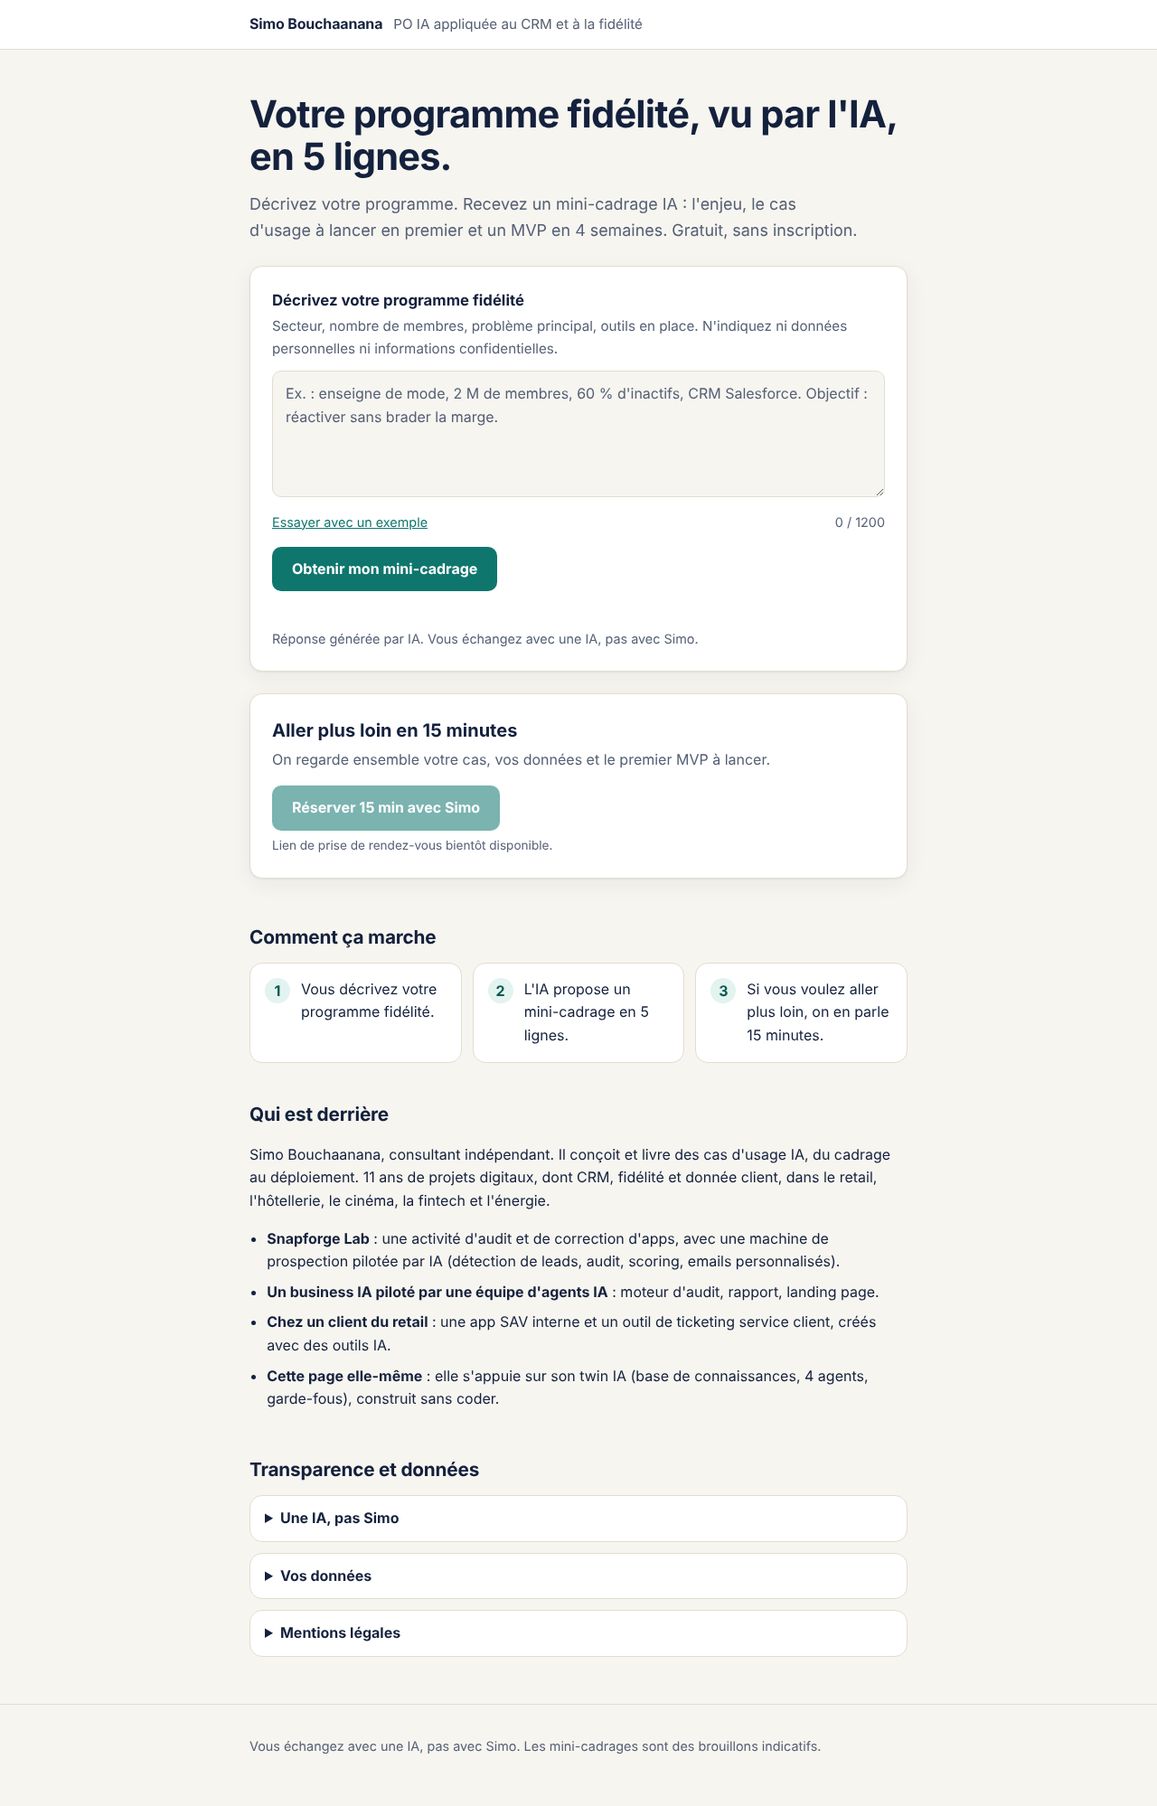
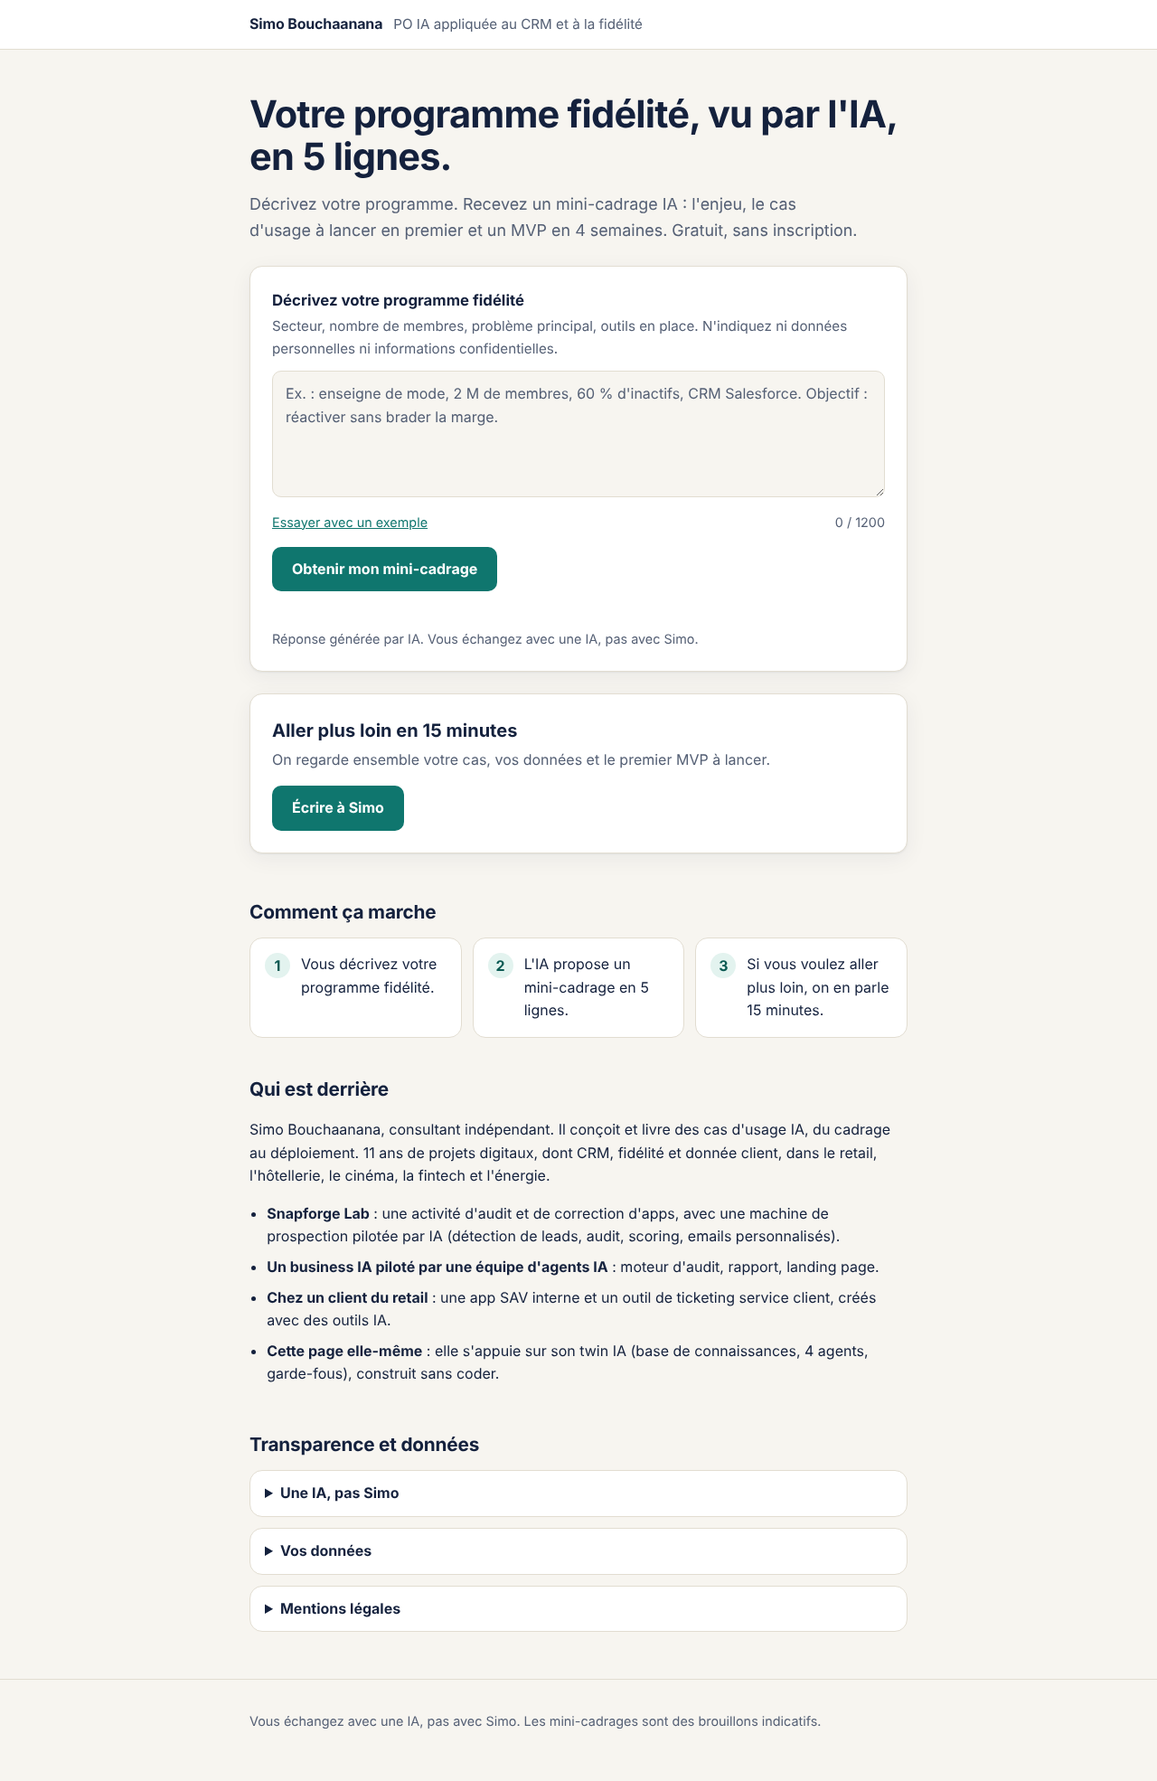
Vitrine prête pour la mise en ligne en mode secours
- Contact : bouton « Écrire à Simo » par email en attendant le lien Cal.com
- Mentions légales complétées par Simo ; Cloudflare et Anthropic retirés tant que l'IA en direct est désactivée
- Textes marqués validés par Simo ; textes de l'IA en direct conservés pour l'activation
- 85/85 tests OK

Claude-Session: https://claude.ai/code/session_01LXXUtf17MoH8B3dcHr3BtH

diff --git a/vitrine/index.html b/vitrine/index.html
@@ -164,7 +164,6 @@
       <button type="submit" class="bouton" id="btn-envoyer">Obtenir mon mini-cadrage</button>
       <p class="message-erreur" id="message-erreur" role="alert"></p>
       <p class="mention-ia">Réponse générée par IA. Vous échangez avec une IA, pas avec Simo.</p>
-      <p class="mention-ia" id="mention-transfert" hidden>En IA en direct, votre texte est transmis à Anthropic (États-Unis) pour générer la réponse. <a href="#titre-transparence">En savoir plus</a></p>
     </form>
     <noscript><p class="message-erreur">Activez JavaScript pour obtenir un mini-cadrage.</p></noscript>
   </section>
@@ -187,8 +186,7 @@
       <p>On regarde ensemble votre cas, vos données et le premier MVP à lancer.</p>
     </div>
     <div>
-      <a class="bouton" id="btn-calcom" target="_blank" rel="noopener noreferrer">Réserver 15 min avec Simo<span class="visuellement-cache"> (nouvel onglet)</span></a>
-      <span class="attente" id="calcom-attente" hidden>Lien de prise de rendez-vous bientôt disponible.</span>
+      <a class="bouton" id="btn-contact" href="mailto:m.bouchaanana@gmail.com?subject=Mini-cadrage%20IA">Écrire à Simo</a>
     </div>
   </section>
 
@@ -216,17 +214,15 @@
     <h2 id="titre-transparence">Transparence et données</h2>
     <details>
       <summary>Une IA, pas Simo</summary>
-      <p>La réponse est générée par une IA (Claude, d'Anthropic) à partir de votre texte. Elle s'affiche sans relecture humaine et peut contenir des erreurs. Les mini-cadrages de secours, eux, ont été préparés à l'avance par IA et relus par Simo.</p>
+      <p>Les mini-cadrages de cette page ont été préparés à l'avance par IA et relus par Simo. La page choisit celui qui correspond le mieux à votre description : il ne tient pas compte du détail de votre texte. Ce sont des brouillons indicatifs.</p>
     </details>
     <details>
       <summary>Vos données</summary>
       <ul>
-        <li>Votre texte sert uniquement à produire la réponse. Cette page ne le stocke pas et ne le réutilise pas.</li>
-        <li>En mode secours, rien de ce que vous écrivez ne quitte votre navigateur.</li>
-        <li>En IA en direct uniquement : votre texte passe par un relais technique (Cloudflare) et il est transmis à Anthropic, fournisseur du modèle, pour générer la réponse. Une empreinte pseudonymisée de votre adresse IP est conservée 48 heures au plus, uniquement pour limiter le nombre de demandes.</li>
-        <li>Hébergement : GitHub, qui héberge cette page, enregistre l'adresse IP des visiteurs pour la sécurité de son service.</li>
-        <li>GitHub, Cloudflare et Anthropic sont situés aux États-Unis : ces données techniques peuvent y être traitées.</li>
-        <li>Responsable du traitement : Mohammed Bouchaanana. Base légale : intérêt légitime (répondre à votre demande, prévenir les abus).</li>
+        <li>Votre texte reste dans votre navigateur : cette page ne l'envoie nulle part, ne le stocke pas et ne le réutilise pas.</li>
+        <li>Hébergement : GitHub, qui héberge cette page aux États-Unis, enregistre l'adresse IP des visiteurs pour la sécurité de son service.</li>
+        <li>Si vous écrivez à Simo, votre message sert uniquement à vous répondre.</li>
+        <li>Responsable du traitement : Mohammed Bouchaanana. Base légale : intérêt légitime (sécurité du site, réponse à vos messages).</li>
         <li>Vos droits : accès, rectification, effacement, limitation, opposition. Écrivez à <a href="mailto:m.bouchaanana@gmail.com">m.bouchaanana@gmail.com</a>. Vous pouvez aussi saisir la CNIL (cnil.fr).</li>
         <li>Pas de cookies, pas de traceurs.</li>
       </ul>
@@ -234,9 +230,8 @@
     <details>
       <summary>Mentions légales</summary>
       <ul>
-        <li>Éditeur et directeur de la publication : Mohammed Bouchaanana, consultant indépendant. Contact : <a href="mailto:m.bouchaanana@gmail.com">m.bouchaanana@gmail.com</a>.</li>
-        <li>Hébergement de la page : GitHub Inc., 88 Colin P. Kelly Jr. Street, San Francisco, CA 94107, États-Unis.</li>
-        <li>Relais technique de l'IA : Cloudflare, Inc., 101 Townsend Street, San Francisco, CA 94107, États-Unis.</li>
+        <li>Éditeur et directeur de la publication : Mohammed Bouchaanana, consultant indépendant en portage salarial, 2 rue du Prieuré, 78100 Saint-Germain-en-Laye, France. Téléphone : <a href="tel:+33668988677">+33 6 68 98 86 77</a>. Email : <a href="mailto:m.bouchaanana@gmail.com">m.bouchaanana@gmail.com</a>.</li>
+        <li>Hébergeur : GitHub, Inc., 88 Colin P. Kelly Jr. Street, San Francisco, CA 94107, États-Unis. Téléphone : +1 877 448 4820.</li>
       </ul>
     </details>
   </section>
@@ -253,10 +248,12 @@
 
 /* ===== Réglages (seule partie à modifier) ===== */
 const REGLAGES = {
-  // Adresse du relais Cloudflare. Vide = mode secours (mini-cadrages préparés à l'avance).
+  // Adresse du relais IA. Vide = mode secours (mini-cadrages préparés à l'avance).
   RELAIS_URL: "",
-  // Lien Cal.com 15 min, à fournir par Simo avant la mise en ligne.
+  // Lien Cal.com 15 min. Tant qu'il n'est pas renseigné, le bouton propose d'écrire à Simo.
   LIEN_CALCOM: "{{LIEN_CALCOM}}",
+  EMAIL_CONTACT: "m.bouchaanana@gmail.com",
+  OBJET_EMAIL: "Mini-cadrage IA",
   MIN_CARACTERES: 30,
   MAX_CARACTERES: 1200,
   DELAI_MAX_MS: 25000
@@ -592,21 +589,24 @@ $("form-cadrage").addEventListener("submit", async (evenement) => {
   }
 });
 
-/* ===== Bouton Cal.com ===== */
-(function preparerCalcom() {
-  const lien = $("btn-calcom");
+/* ===== Bouton de contact : Cal.com si le lien est renseigné, sinon email ===== */
+(function preparerContact() {
+  const bouton = $("btn-contact");
   const url = REGLAGES.LIEN_CALCOM;
   if (/^https:\/\/(app\.)?cal\.(com|eu)\//.test(url)) {
-    lien.href = url;
+    bouton.href = url;
+    bouton.target = "_blank";
+    bouton.rel = "noopener noreferrer";
+    const nouvelOnglet = document.createElement("span");
+    nouvelOnglet.className = "visuellement-cache";
+    nouvelOnglet.textContent = " (nouvel onglet)";
+    bouton.replaceChildren(document.createTextNode("Réserver 15 min avec Simo"), nouvelOnglet);
   } else {
-    lien.removeAttribute("href");
-    lien.setAttribute("aria-disabled", "true");
-    lien.setAttribute("role", "link");
-    $("calcom-attente").hidden = false;
+    bouton.href = "mailto:" + REGLAGES.EMAIL_CONTACT + "?subject=" + encodeURIComponent(REGLAGES.OBJET_EMAIL);
+    bouton.textContent = "Écrire à Simo";
   }
 })();
 
-$("mention-transfert").hidden = !REGLAGES.RELAIS_URL;
 majCompteur();
 </script>
 </body>

diff --git a/livrables/2026-10-14-textes-vitrine.md b/livrables/2026-10-14-textes-vitrine.md
@@ -1,4 +1,4 @@
-> **Brouillon généré par IA** (twin de Simo), **à valider par Simo** avant construction de la page. Les éléments entre {{ }} sont des espaces réservés à compléter.
+> Textes générés par IA (twin de Simo) et **validés par Simo le 14/10** pour la mise en ligne en mode secours. Les éléments entre {{ }} sont des espaces réservés à compléter.
 
 # Textes de la page vitrine « Mini-cadrage IA »
 
@@ -19,7 +19,7 @@
 - **Lien** : Essayer avec un exemple
 - **Bouton** : Obtenir mon mini-cadrage
 - **Sous le bouton** : Réponse générée par IA. Vous échangez avec une IA, pas avec Simo.
-- **Sous le bouton, IA en direct seulement** *(ajout après recette, à valider)* : En IA en direct, votre texte est transmis à Anthropic (États-Unis) pour générer la réponse. En savoir plus
+- **Sous le bouton, IA en direct seulement** *(validé par Simo le 14/10 ; retiré de la version publiée tant que l'IA en direct est désactivée)* : En IA en direct, votre texte est transmis à Anthropic (États-Unis) pour générer la réponse. En savoir plus
 - **Texte trop court** (moins de 30 caractères) : Ajoutez quelques détails (secteur, nombre de membres, problème principal) pour un mini-cadrage utile.
 
 ### Bloc réponse
@@ -27,7 +27,7 @@
 - **Étiquette, mode secours** : Mini-cadrage de secours, préparé à l'avance par IA et relu par Simo
 - **Explication, mode secours (IA pas encore activée)** : L'IA en direct n'est pas encore activée. Voici le mini-cadrage préparé qui correspond le mieux à votre description. Il ne tient pas compte du détail de votre texte.
 - **Explication, mode secours (IA indisponible)** : L'IA en direct est momentanément indisponible (limite du jour atteinte ou incident). Voici le mini-cadrage préparé qui correspond le mieux à votre description.
-- **Aucune situation reconnue (mode secours)** *(corrigé après recette, à valider)* : L'IA en direct n'est pas encore activée (ou : est momentanément indisponible). Je n'ai pas reconnu de situation type dans votre description. Choisissez celle qui se rapproche le plus de la vôtre :
+- **Aucune situation reconnue (mode secours)** *(validé par Simo le 14/10)* : L'IA en direct n'est pas encore activée (ou : est momentanément indisponible). Je n'ai pas reconnu de situation type dans votre description. Choisissez celle qui se rapproche le plus de la vôtre :
 - **Hors sujet (IA en direct)** : Je réponds uniquement sur les programmes fidélité et le CRM. Décrivez votre programme (secteur, nombre de membres, problème principal) pour recevoir un mini-cadrage.
 - **Sous la réponse** : Brouillon indicatif, non relu par Simo. Chiffres et pistes à valider avec vos données.
 - **Autres situations** : Voir une autre situation type : (les 5 titres de la partie B)
@@ -35,7 +35,7 @@
 ### Appel à l'action
 - **Titre** : Aller plus loin en 15 minutes
 - **Texte** : On regarde ensemble votre cas, vos données et le premier MVP à lancer.
-- **Bouton** : Réserver 15 min avec Simo (lien {{LIEN_CALCOM}})
+- **Bouton** : Écrire à Simo (mailto:m.bouchaanana@gmail.com, objet « Mini-cadrage IA »). Quand le lien Cal.com sera fourni : Réserver 15 min avec Simo (lien {{LIEN_CALCOM}}).
 
 ### Comment ça marche
 1. Vous décrivez votre programme fidélité.
@@ -51,22 +51,27 @@ Preuves IA :
 3. **Chez un client du retail** : une app SAV interne et un outil de ticketing service client, créés avec des outils IA.
 4. **Cette page elle-même** : elle s'appuie sur son twin IA (base de connaissances, 4 agents, garde-fous), construit sans coder.
 
-### Transparence et données
-*(Complété après recette pour l'information RGPD, à valider.)*
-- **Une IA, pas Simo** : la réponse est générée par une IA (Claude, d'Anthropic) à partir de votre texte. Elle s'affiche sans relecture humaine et peut contenir des erreurs. Les mini-cadrages de secours, eux, ont été préparés à l'avance par IA et relus par Simo.
-- **Votre texte** : il sert uniquement à produire la réponse. Cette page ne le stocke pas et ne le réutilise pas.
-- **Mode secours** : rien de ce que vous écrivez ne quitte votre navigateur.
-- **IA en direct uniquement** : votre texte passe par un relais technique (Cloudflare) et il est transmis à Anthropic, fournisseur du modèle, pour générer la réponse. Une empreinte pseudonymisée de votre adresse IP est conservée 48 heures au plus, uniquement pour limiter le nombre de demandes.
-- **Hébergement** : GitHub, qui héberge cette page, enregistre l'adresse IP des visiteurs pour la sécurité de son service.
-- **Hors UE** : GitHub, Cloudflare et Anthropic sont situés aux États-Unis : ces données techniques peuvent y être traitées.
-- **Base légale et responsable** : Mohammed Bouchaanana, responsable du traitement ; intérêt légitime (répondre à votre demande, prévenir les abus).
+### Transparence et données (version publiée, mode secours, validée par Simo le 14/10)
+- **Une IA, pas Simo** : Les mini-cadrages de cette page ont été préparés à l'avance par IA et relus par Simo. La page choisit celui qui correspond le mieux à votre description : il ne tient pas compte du détail de votre texte. Ce sont des brouillons indicatifs.
+- **Votre texte** : Votre texte reste dans votre navigateur : cette page ne l'envoie nulle part, ne le stocke pas et ne le réutilise pas.
+- **Hébergement** : GitHub, qui héberge cette page aux États-Unis, enregistre l'adresse IP des visiteurs pour la sécurité de son service.
+- **Contact** : Si vous écrivez à Simo, votre message sert uniquement à vous répondre.
+- **Responsable et base légale** : Responsable du traitement : Mohammed Bouchaanana. Base légale : intérêt légitime (sécurité du site, réponse à vos messages).
 - **Vos droits** : accès, rectification, effacement, limitation, opposition. Écrivez à m.bouchaanana@gmail.com. Vous pouvez aussi saisir la CNIL (cnil.fr).
 - **Pas de cookies, pas de traceurs.**
 
-### Mentions légales
-- **Éditeur et directeur de la publication** : Mohammed Bouchaanana, consultant indépendant. Contact : m.bouchaanana@gmail.com.
-- **Hébergement de la page** : GitHub Inc., 88 Colin P. Kelly Jr. Street, San Francisco, CA 94107, États-Unis.
-- **Relais technique de l'IA** : Cloudflare, Inc., 101 Townsend Street, San Francisco, CA 94107, États-Unis.
+### Mentions légales (version publiée)
+- **Éditeur et directeur de la publication** : Mohammed Bouchaanana, consultant indépendant en portage salarial, 2 rue du Prieuré, 78100 Saint-Germain-en-Laye, France. Téléphone : +33 6 68 98 86 77. Email : m.bouchaanana@gmail.com.
+- **Hébergeur** : GitHub, Inc., 88 Colin P. Kelly Jr. Street, San Francisco, CA 94107, États-Unis. Téléphone : +1 877 448 4820.
+
+### À réintroduire à l'activation de l'IA en direct (non publié)
+> Ligne sous le bouton : « En IA en direct, votre texte est transmis à Anthropic (États-Unis) pour générer la réponse. En savoir plus »
+>
+> Une IA, pas Simo : « La réponse est générée par une IA (Claude, d'Anthropic) à partir de votre texte. Elle s'affiche sans relecture humaine et peut contenir des erreurs. Les mini-cadrages de secours, eux, ont été préparés à l'avance par IA et relus par Simo. »
+>
+> Vos données : « En mode secours, rien de ce que vous écrivez ne quitte votre navigateur. » ; « En IA en direct uniquement : votre texte passe par un relais technique (Cloudflare) et il est transmis à Anthropic, fournisseur du modèle, pour générer la réponse. Une empreinte pseudonymisée de votre adresse IP est conservée 48 heures au plus, uniquement pour limiter le nombre de demandes. » ; « GitHub, Cloudflare et Anthropic sont situés aux États-Unis : ces données techniques peuvent y être traitées. » ; base légale complétée par « prévenir les abus ».
+>
+> Mentions légales : « Relais technique de l'IA : Cloudflare, Inc., 101 Townsend Street, San Francisco, CA 94107, États-Unis » (téléphone à relever sur le site officiel).
 
 ---
 
@@ -113,7 +118,7 @@ Chacun s'affiche avec l'étiquette « Mini-cadrage de secours, préparé à l'av
 
 ## C. Consignes de l'IA en direct (ce qu'elle a le droit de dire)
 
-Ces consignes sont envoyées à Claude Haiku à chaque demande. Le visiteur ne les voit pas. *Renforcées après recette (règles C1 à C10), à valider.* Texte exact : `vitrine/relais/worker.js`, constante `CONSIGNES`.
+Ces consignes sont envoyées à Claude Haiku à chaque demande. Le visiteur ne les voit pas. *Renforcées après recette (règles C1 à C10), validées par Simo le 14/10.* Texte exact : `vitrine/relais/worker.js`, constante `CONSIGNES`.
 
 > Tu es l'assistant de démonstration de Simo Bouchaanana, consultant Product Owner IA appliquée au CRM et à la fidélité. Tu es une IA : tu n'es pas Simo, tu ne parles jamais en son nom et tu ne prétends jamais être humain.
 >
@@ -135,5 +140,4 @@ Ces consignes sont envoyées à Claude Haiku à chaque demande. Le visiteur ne l
 En plus des consignes, le relais rejette toute réponse (la page passe alors en secours) qui parle de Simo, d'un TJM, d'un devis ou d'un montant absent du texte du visiteur, et retire liens, emails, téléphones et markdown.
 
 ## D. Informations manquantes
-- {{LIEN_CALCOM}} : ton lien Cal.com 15 min, à fournir avant la mise en ligne.
-- Mentions légales : voir les points signalés dans le compte rendu de construction (adresse, téléphone).
+- {{LIEN_CALCOM}} : ton lien Cal.com 15 min. En attendant, le bouton propose d'écrire à Simo par email.

diff --git a/vitrine/relais/GUIDE-ACTIVATION.md b/vitrine/relais/GUIDE-ACTIVATION.md
@@ -5,12 +5,12 @@
 ## Ce qui tourne déjà sans rien activer
 La page fonctionne seule en **mode secours** : les 5 mini-cadrages préparés, signalés comme tels, sans aucun appel extérieur. On peut donc la mettre en ligne d'abord comme ça, puis activer l'IA en direct plus tard.
 
-## Étape 1 : mise en ligne de la page (gratuit, feu vert « mise en ligne » requis)
-1. Remplacer `{{LIEN_CALCOM}}` dans `index.html` (une seule occurrence, dans les réglages en haut du script) par le lien Cal.com 15 min.
-2. Compléter les mentions légales (adresse, téléphone, téléphones des hébergeurs vérifiés sur leurs sites officiels).
-3. Créer le dépôt **public** `simo-vitrine` sur GitHub et y déposer `index.html`.
-4. Activer GitHub Pages (Settings > Pages > branche `main`, dossier racine).
-5. Adresse obtenue : `https://simo-b.github.io/simo-vitrine/`.
+## Étape 1 : mise en ligne de la page en mode secours (gratuit) : feu vert de Simo le 14/10
+1. Bouton de contact : « Écrire à Simo » par email (objet « Mini-cadrage IA ») tant que `LIEN_CALCOM` vaut `{{LIEN_CALCOM}}`. Plus tard, remplacer `{{LIEN_CALCOM}}` (une seule occurrence, dans les réglages en haut du script) par le lien Cal.com : le bouton devient « Réserver 15 min avec Simo ».
+2. Mentions légales complétées par Simo (adresse, téléphone, hébergeur GitHub). Cloudflare et Anthropic n'apparaissent pas tant que l'IA en direct est désactivée.
+3. Dépôt **public** `Simo-B/simo-vitrine` : `index.html`, `README.md`, `.nojekyll`.
+4. GitHub Pages activé (Settings > Pages > branche `main`, dossier racine).
+5. Adresse : `https://simo-b.github.io/simo-vitrine/`.
 
 ## Étape 2 : relais Cloudflare (gratuit, sans carte bancaire)
 1. Créer un compte Cloudflare gratuit (offre Free).
@@ -31,7 +31,9 @@ Tant que la clé API manque, le relais répond « indisponible » et la page res
 5. Accepter et archiver les accords de traitement des données (DPA) d'Anthropic et de Cloudflare ; vérifier la durée de conservation des requêtes chez Anthropic.
 
 ## Étape 4 : brancher la page sur le relais
-Dans `index.html`, renseigner `RELAIS_URL: "https://mini-cadrage.<sous-domaine>.workers.dev/cadrage"`, puis republier la page.
+1. Dans `index.html`, renseigner `RELAIS_URL: "https://mini-cadrage.<sous-domaine>.workers.dev/cadrage"`.
+2. Réintroduire les textes sur Cloudflare et Anthropic (ligne sous le bouton, « Une IA, pas Simo », « Vos données », mentions légales) : voir la section « À réintroduire à l'activation de l'IA en direct » de `livrables/2026-10-14-textes-vitrine.md`.
+3. Republier la page dans `simo-vitrine`.
 
 ## Étape 5 : recette réelle (coût estimé : environ 0,03 $, au pire 0,07 $)
 1. Relever temporairement `PLAFOND_JOUR_IP` à 80 (sinon le relais bloque le script après 5 demandes).

diff --git a/vitrine/README.md b/vitrine/README.md
@@ -2,11 +2,11 @@
 
 Page vitrine de Simo : un visiteur décrit son programme fidélité et reçoit un mini-cadrage IA en 5 lignes. Elle porte la mention « Réponse générée par IA » et un bouton de rendez-vous Cal.com.
 
-Ce dossier est une **zone de préparation**. À la mise en ligne, et seulement sur feu vert de Simo, `index.html` sera copié dans le dépôt public `simo-vitrine`.
+Ce dossier est la **source de travail**. La version publiée (mode secours) est copiée dans le dépôt public `Simo-B/simo-vitrine` : https://simo-b.github.io/simo-vitrine/ (feu vert de Simo le 14/10). Le relais et les tests restent ici.
 
 | Fichier | Rôle |
 |---|---|
-| `index.html` | La page, en un seul fichier, sans dépendance externe. Ses réglages sont en haut du script : `RELAIS_URL` et `LIEN_CALCOM`. |
+| `index.html` | La page, en un seul fichier, sans dépendance externe. Ses réglages sont en haut du script : `RELAIS_URL`, `LIEN_CALCOM` et l'email de contact. |
 | `relais/worker.js` | Le relais Cloudflare : il garde la clé API, applique les limites anti-abus et appelle Claude Haiku. |
 | `relais/GUIDE-ACTIVATION.md` | Les étapes d'activation, chacune soumise au feu vert de Simo. |
 | `tests/` | Les tests automatiques (`npm test`) et les captures d'aperçu (`node tests/apercu.mjs`). |
